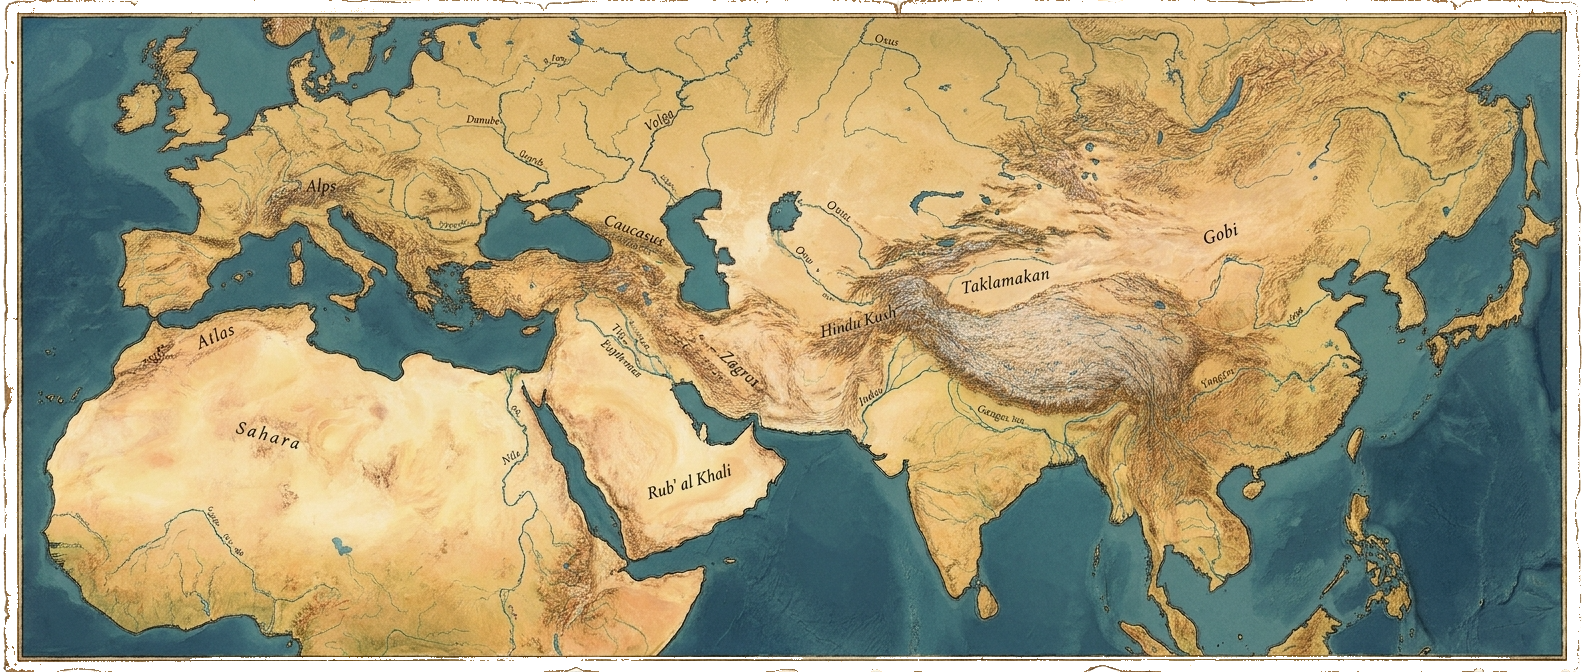
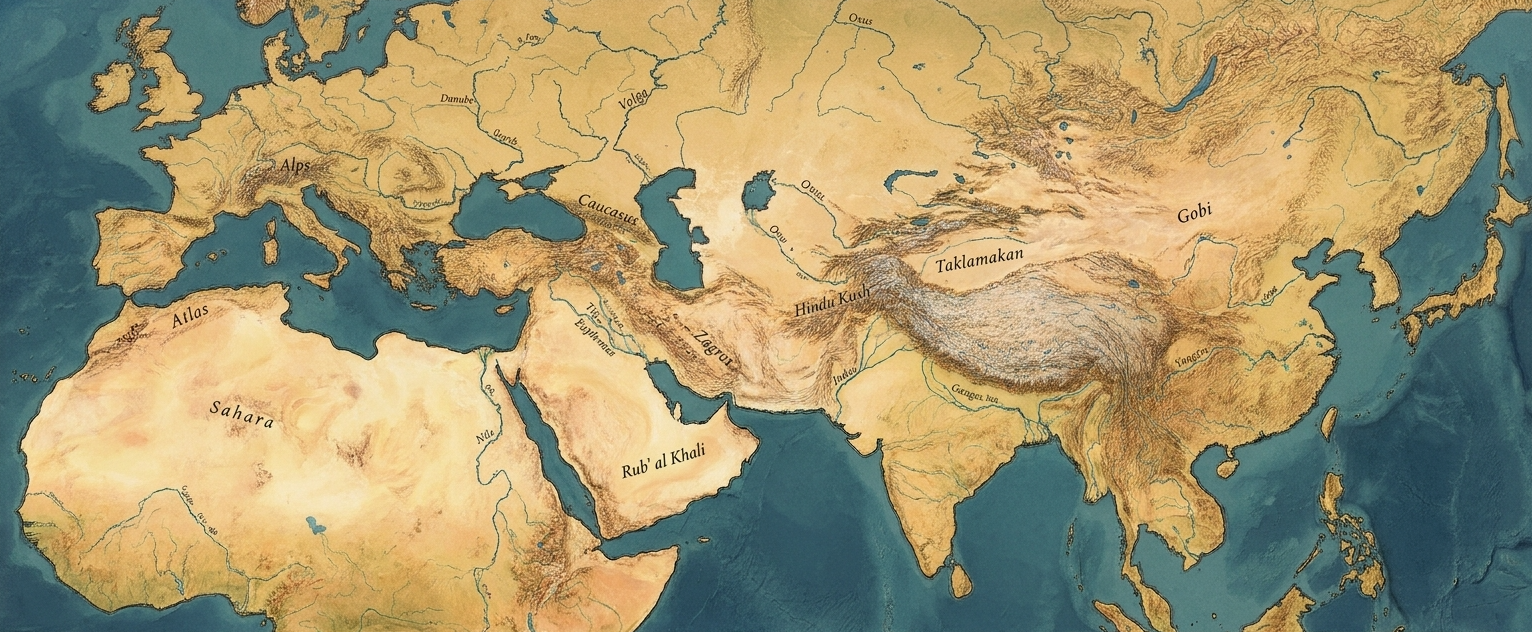
Crop the painted gold frame off the base map
The gold double-line border was painted into the PNG itself (about 16
pixels wide) so wrap-padding alone could never give it breathing room —
adding indigo around the wrap just left the gold line flush against
the new edge. Cropped the PNG by ~24px on left/right and ~19px top/
bottom to remove the painted frame entirely; the geography now
displays cleanly against the indigo. CSS positioning is recomputed so
the cropped content lines up at the same wrap-pixel range that the
original framed PNG used, preserving pin alignment.

diff --git a/styles.css b/styles.css
@@ -286,16 +286,20 @@ html, body {
   height: 1440px;
 }
 
-/* Painted base map — sits behind the SVG overlay. Shifted right by 180px
-   inside the wider wrap so it's horizontally centered. */
+/* Painted base map — sits behind the SVG overlay. Now cropped to remove
+   the painted gold-and-parchment frame; its CSS position compensates so
+   the geographic content still lines up with where pins are drawn (the
+   pins were calibrated against the framed original).
+   Original PNG was 1584×672, content area was approximately x=24..1556
+   y=19..654; that range now maps to 0..1532 × 0..632 in the cropped PNG.
+   Wrap-pixel position of original content: x≈224..3008 (width 2784),
+   y≈137..1304 (height 1167). */
 .base-map-img {
   position: absolute;
-  left: 180px;
-  /* 85/1200 of 1440 ≈ 102px — matches the y="85" offset in SVG. */
-  top: 102px;
-  width: 2880px;
-  /* 1029/1200 of 1440 ≈ 1235px — matches height="1029" in SVG. */
-  height: 1235px;
+  left: 224px;
+  top: 137px;
+  width: 2784px;
+  height: 1167px;
   pointer-events: none;
   user-select: none;
   -webkit-user-drag: none;
